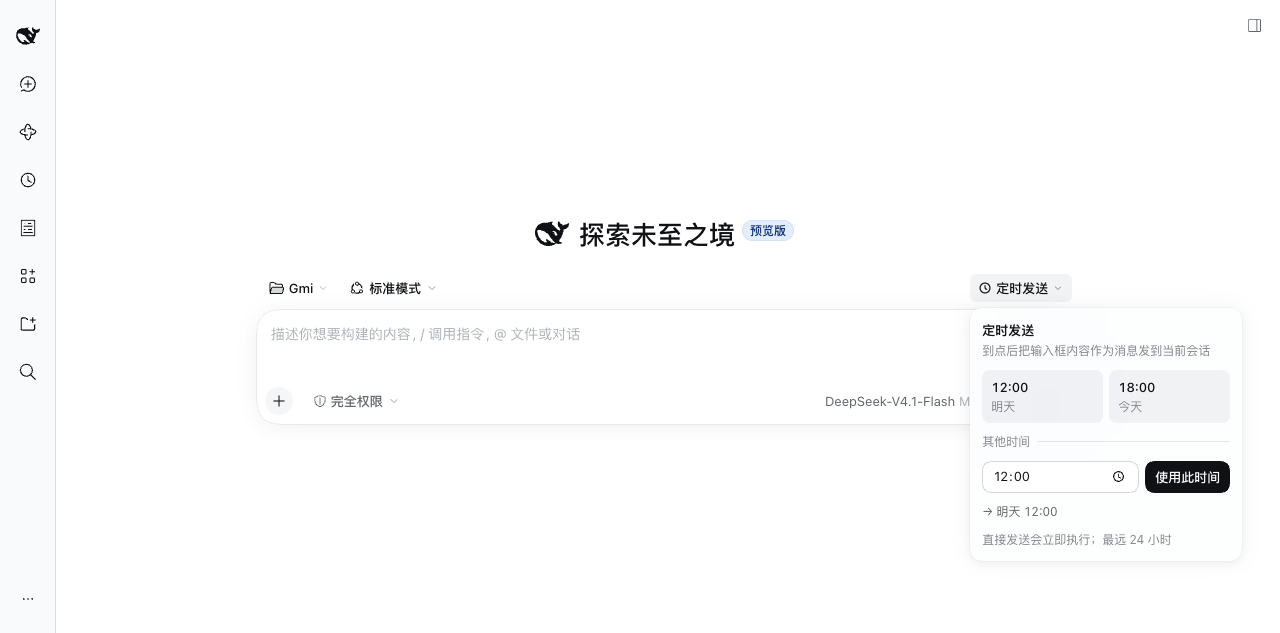
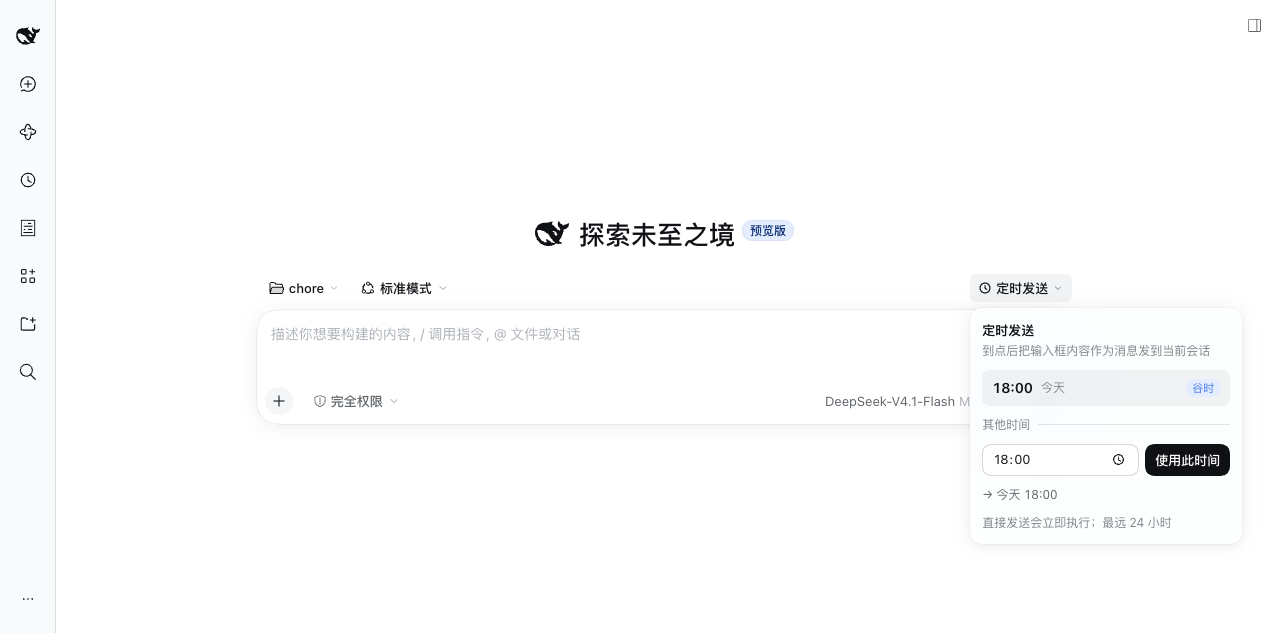
feat: merge the quick times into the next off-peak start
Before noon the single quick pick is today's 12:00; after noon it is
today's 18:00, and after 18:00 tomorrow's 12:00. A pill marks the time as
the off-peak start, and the custom time field starts from the same value.

diff --git a/client.js b/client.js
@@ -5,6 +5,8 @@
  * above the composer then turns the current draft into a one-shot task on the
  * official @deepseek-ai/dsh-schedule service (`remote.schedule.create`), so
  * nothing runs until the chosen time and no model turn is spent registering it.
+ * The quick pick is the next off-peak start (12:00 or 18:00), the two moments
+ * DeepSeek's half-price window opens.
  *
  * The picked time is only a staging state: the control and the bar say so, and
  * the bar's primary action ("安排发送") is the only thing that creates a task.
@@ -44,6 +46,9 @@ window.__ModuleLoader__.load({
       'picker.use': '使用此时间',
       'picker.resolved': '→ {when}',
       'picker.hint': '直接发送会立即执行；最远 24 小时',
+      'picker.quick': '谷时',
+      'picker.quickHint': '12:00 和 18:00 是谷时起点，价格是峰时的一半',
+      'picker.quickLabel': '安排在 {when}，谷时',
       'bar.title': '定时发送',
       'bar.remaining': '还有 {time}',
       'bar.imminent': '还有不到 1 分钟',
@@ -75,6 +80,9 @@ window.__ModuleLoader__.load({
       'picker.use': 'Use this time',
       'picker.resolved': '→ {when}',
       'picker.hint': 'Send runs it now; up to 24h ahead',
+      'picker.quick': 'Off-peak',
+      'picker.quickHint': '12:00 and 18:00 start off-peak, at half the peak price',
+      'picker.quickLabel': 'Schedule for {when}, off-peak',
       'bar.title': 'Schedule send',
       'bar.remaining': 'in {time}',
       'bar.imminent': 'in under a minute',
@@ -153,13 +161,13 @@ window.__ModuleLoader__.load({
 }
 .dss-panel-title { font-size: 13px; font-weight: 600; line-height: 20px; }
 .dss-panel-sub { margin-top: 2px; color: var(--dsw-alias-label-tertiary); font-size: 12px; line-height: 18px; }
-.dss-presets { display: grid; grid-template-columns: 1fr 1fr; gap: 6px; }
+.dss-presets { display: flex; }
 .dss-preset {
   display: flex;
-  flex-direction: column;
-  align-items: flex-start;
-  gap: 1px;
-  padding: 7px 9px;
+  flex: 1;
+  align-items: center;
+  gap: 8px;
+  padding: 8px 10px;
   border: 0;
   border-radius: 10px;
   background: var(--dsw-alias-interactive-bg-hover);
@@ -177,8 +185,17 @@ window.__ModuleLoader__.load({
   background: var(--dsw-alias-button-ghost-active-fill);
   box-shadow: inset 0 0 0 1px var(--dsw-alias-button-ghost-active-border);
 }
-.dss-preset-time { font-size: 13px; font-weight: 500; line-height: 20px; font-variant-numeric: tabular-nums; }
-.dss-preset-day { color: var(--dsw-alias-label-tertiary); font-size: 12px; line-height: 18px; }
+.dss-preset-time { font-size: 14px; font-weight: 600; line-height: 20px; font-variant-numeric: tabular-nums; }
+.dss-preset-day { flex: 1; color: var(--dsw-alias-label-tertiary); font-size: 12px; line-height: 18px; }
+.dss-preset-tag {
+  flex: none;
+  padding: 0 6px;
+  border-radius: 999px;
+  background: var(--dsw-alias-state-business-tertiary);
+  color: var(--dsw-alias-state-business-primary);
+  font-size: 11px;
+  line-height: 18px;
+}
 .dss-sep { display: flex; align-items: center; gap: 8px; color: var(--dsw-alias-label-tertiary); font-size: 12px; line-height: 18px; }
 .dss-sep::after { flex: 1; height: 0.5px; background: var(--dsw-alias-border-l2); content: ''; }
 .dss-custom { display: flex; align-items: center; gap: 6px; }
@@ -508,8 +525,12 @@ window.__ModuleLoader__.load({
 
     /* ---------------------------------------------------------- time picker */
 
-    /** The two off-peak entry points the quick picks offer. */
-    const PRESETS = [[12, 0], [18, 0]]
+    /** The next off-peak start: 12:00, or 18:00 once noon has passed. */
+    function nextOffPeakStart(now) {
+      const noon = nextOccurrence(12, 0, now)
+      const evening = nextOccurrence(18, 0, now)
+      return noon.getTime() <= evening.getTime() ? noon : evening
+    }
 
     /**
      * One anchored panel of quick times plus a custom wall-clock entry.
@@ -521,7 +542,7 @@ window.__ModuleLoader__.load({
       const [position, setPosition] = useState(undefined)
       const [custom, setCustom] = useState(() => {
         const now = new Date()
-        return current === undefined ? clockText(nextOccurrence(12, 0, now)) : clockText(new Date(current))
+        return current === undefined ? clockText(nextOffPeakStart(now)) : clockText(new Date(current))
       })
 
       const place = useCallback(() => {
@@ -595,6 +616,8 @@ window.__ModuleLoader__.load({
 
       const now = new Date()
       const customAt = fromTimeInput(custom, now)
+      const quick = nextOffPeakStart(now)
+      const quickSelected = current !== undefined && Math.abs(current - quick.getTime()) < 60000
 
       return createPortal(
         h('div', {
@@ -610,21 +633,20 @@ window.__ModuleLoader__.load({
           h('div', { className: 'dss-panel-title' }, t('picker.title')),
           h('div', { className: 'dss-panel-sub' }, t('picker.subtitle')),
         ),
-        h('div', { className: 'dss-presets' }, PRESETS.map(([hour, minute], index) => {
-          const at = nextOccurrence(hour, minute, now)
-          const selected = current !== undefined && Math.abs(current - at.getTime()) < 60000
-          return h('button', {
-            key: `${hour}:${minute}`,
-            ref: index === 0 ? firstPresetRef : undefined,
+        h('div', { className: 'dss-presets' },
+          h('button', {
+            ref: firstPresetRef,
             type: 'button',
             className: 'dss-preset',
-            'data-selected': selected ? '' : undefined,
-            'aria-pressed': selected,
-            onClick: () => { commit(at.getTime()) },
+            'data-selected': quickSelected ? '' : undefined,
+            'aria-pressed': quickSelected,
+            'aria-label': t('picker.quickLabel', { when: whenText(quick, now, t) }),
+            title: t('picker.quickHint'),
+            onClick: () => { commit(quick.getTime()) },
           },
-          h('span', { className: 'dss-preset-time' }, clockText(at)),
-          h('span', { className: 'dss-preset-day' }, dayWord(at, now, t)))
-        })),
+          h('span', { className: 'dss-preset-time' }, clockText(quick)),
+          h('span', { className: 'dss-preset-day' }, dayWord(quick, now, t)),
+          h('span', { className: 'dss-preset-tag' }, t('picker.quick')))),
         h('div', { className: 'dss-sep' }, t('picker.other')),
         h('div', { className: 'dss-custom' },
           h('input', {
